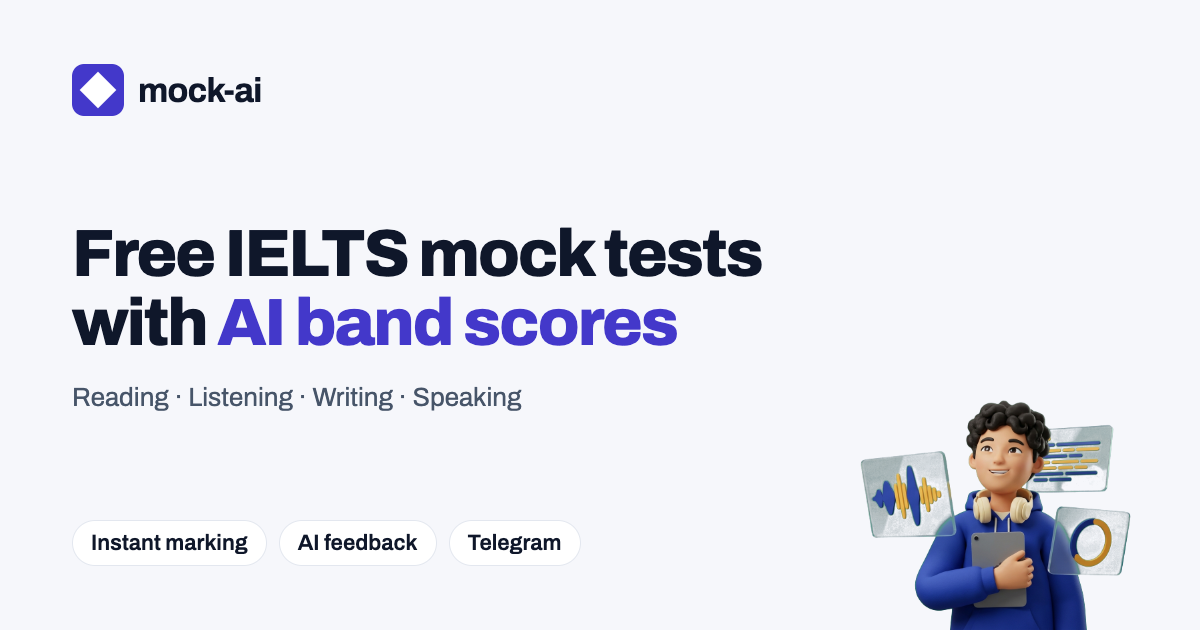
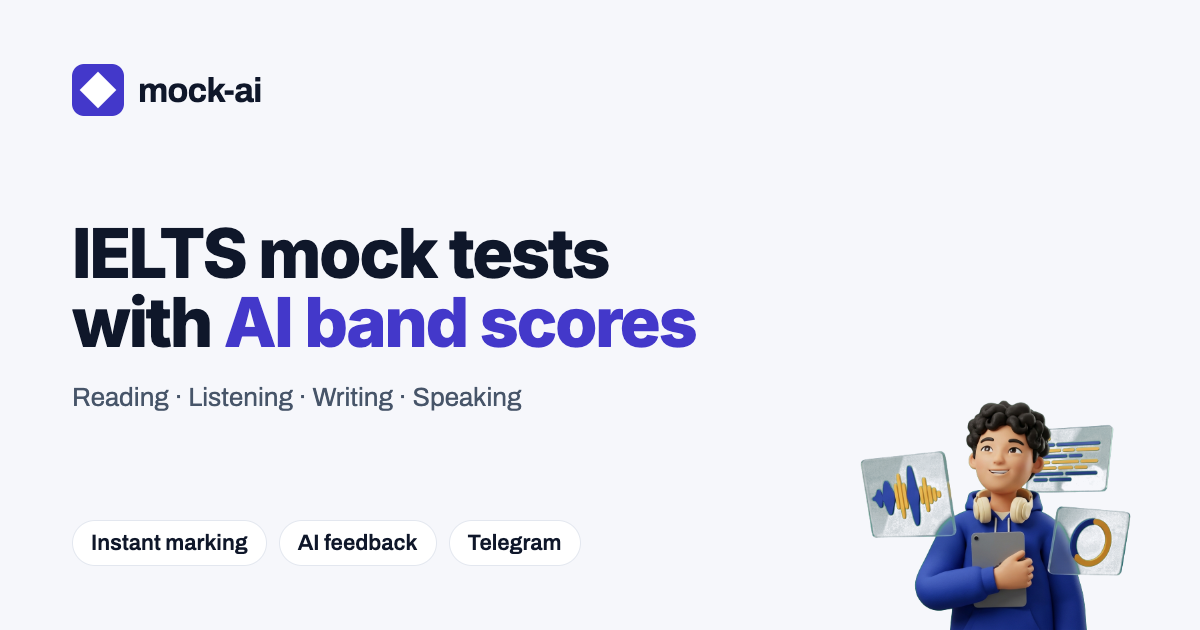
fix: stop calling the site free in the link preview and page head

Changed region(s): [[0.0617, 0.3619, 0.6475, 0.573]]

diff --git a/index.html b/index.html
@@ -3,8 +3,8 @@
   <head>
     <meta charset="UTF-8" />
     <meta name="viewport" content="width=device-width, initial-scale=1.0, viewport-fit=cover" />
-    <title>Mock AI — Free IELTS Mock Tests Online with AI Band Scores</title>
-    <meta name="description" content="Free IELTS mock tests online. Reading and Listening are marked instantly; Writing and Speaking get an AI band estimate with clear feedback. Practise on the web or in Telegram." />
+    <title>Mock AI — IELTS Mock Tests Online with AI Band Scores</title>
+    <meta name="description" content="IELTS mock tests online. Reading and Listening are marked instantly; Writing and Speaking get an AI band estimate with clear feedback. Practise on the web or in Telegram." />
     <link rel="canonical" href="https://mock-ai.uz/" />
     <meta name="robots" content="index, follow, max-image-preview:large" />
     <meta name="theme-color" content="#f0efec" />
@@ -19,18 +19,18 @@
     <meta property="og:type" content="website" />
     <meta property="og:site_name" content="Mock AI" />
     <meta property="og:url" content="https://mock-ai.uz/" />
-    <meta property="og:title" content="Mock AI — Free IELTS Mock Tests with AI Band Scores" />
+    <meta property="og:title" content="Mock AI — IELTS Mock Tests with AI Band Scores" />
     <meta property="og:description" content="Full IELTS mock exams and focused practice across Reading, Listening, Writing and Speaking, with instant marking and AI feedback." />
-    <meta property="og:image" content="https://mock-ai.uz/og-image.png" />
+    <meta property="og:image" content="https://mock-ai.uz/og-image.png?v=2" />
     <meta property="og:image:width" content="1200" />
     <meta property="og:image:height" content="630" />
-    <meta property="og:image:alt" content="Mock AI — free IELTS mock tests with AI band scores" />
+    <meta property="og:image:alt" content="Mock AI — IELTS mock tests with AI band scores" />
     <meta name="twitter:card" content="summary_large_image" />
-    <meta name="twitter:title" content="Mock AI — Free IELTS Mock Tests with AI Band Scores" />
+    <meta name="twitter:title" content="Mock AI — IELTS Mock Tests with AI Band Scores" />
     <meta name="twitter:description" content="IELTS Reading, Listening, Writing and Speaking practice with instant marking and AI feedback." />
-    <meta name="twitter:image" content="https://mock-ai.uz/og-image.png" />
+    <meta name="twitter:image" content="https://mock-ai.uz/og-image.png?v=2" />
 
-    <!-- Structured data: lets search engines show the site as a free education app -->
+    <!-- Structured data: lets search engines show the site as an education app -->
     <script type="application/ld+json">
       {
         "@context": "https://schema.org",
@@ -50,9 +50,8 @@
             "url": "https://mock-ai.uz/",
             "applicationCategory": "EducationalApplication",
             "operatingSystem": "Web, Telegram",
-            "description": "Free IELTS mock tests online with instant Reading and Listening marking and AI band estimates for Writing and Speaking.",
+            "description": "IELTS mock tests online with instant Reading and Listening marking and AI band estimates for Writing and Speaking.",
             "image": "https://mock-ai.uz/og-image.png",
-            "offers": { "@type": "Offer", "price": "0", "priceCurrency": "USD" },
             "audience": { "@type": "EducationalAudience", "educationalRole": "student" },
             "about": { "@type": "Thing", "name": "IELTS" }
           }
@@ -67,7 +66,7 @@
       <!-- Plain-HTML first paint. Crawlers read it straight from the HTML, and
            students see a calm splash until the app mounts and replaces it. -->
       <main style="min-height:100vh;display:grid;place-content:center;gap:12px;padding:24px;text-align:center;font-family:system-ui,-apple-system,'Segoe UI',sans-serif;background:#f0efec;color:#15161a">
-        <h1 style="margin:0;font-size:28px;letter-spacing:-.01em">mock-ai — free IELTS mock tests online</h1>
+        <h1 style="margin:0;font-size:28px;letter-spacing:-.01em">mock-ai — IELTS mock tests online</h1>
         <p style="margin:0;max-width:560px;color:#474a52;line-height:1.55">Full IELTS mock exams and focused practice across Reading, Listening, Writing and Speaking. Reading and Listening are marked instantly against the answer key; Writing and Speaking get an AI band estimate with the reasons behind it.</p>
         <p style="margin:0;color:#63666e;font-size:14px">IELTS Reading practice · IELTS Listening practice · IELTS Writing Task 2 feedback · IELTS Speaking interview with an AI examiner</p>
       </main>
